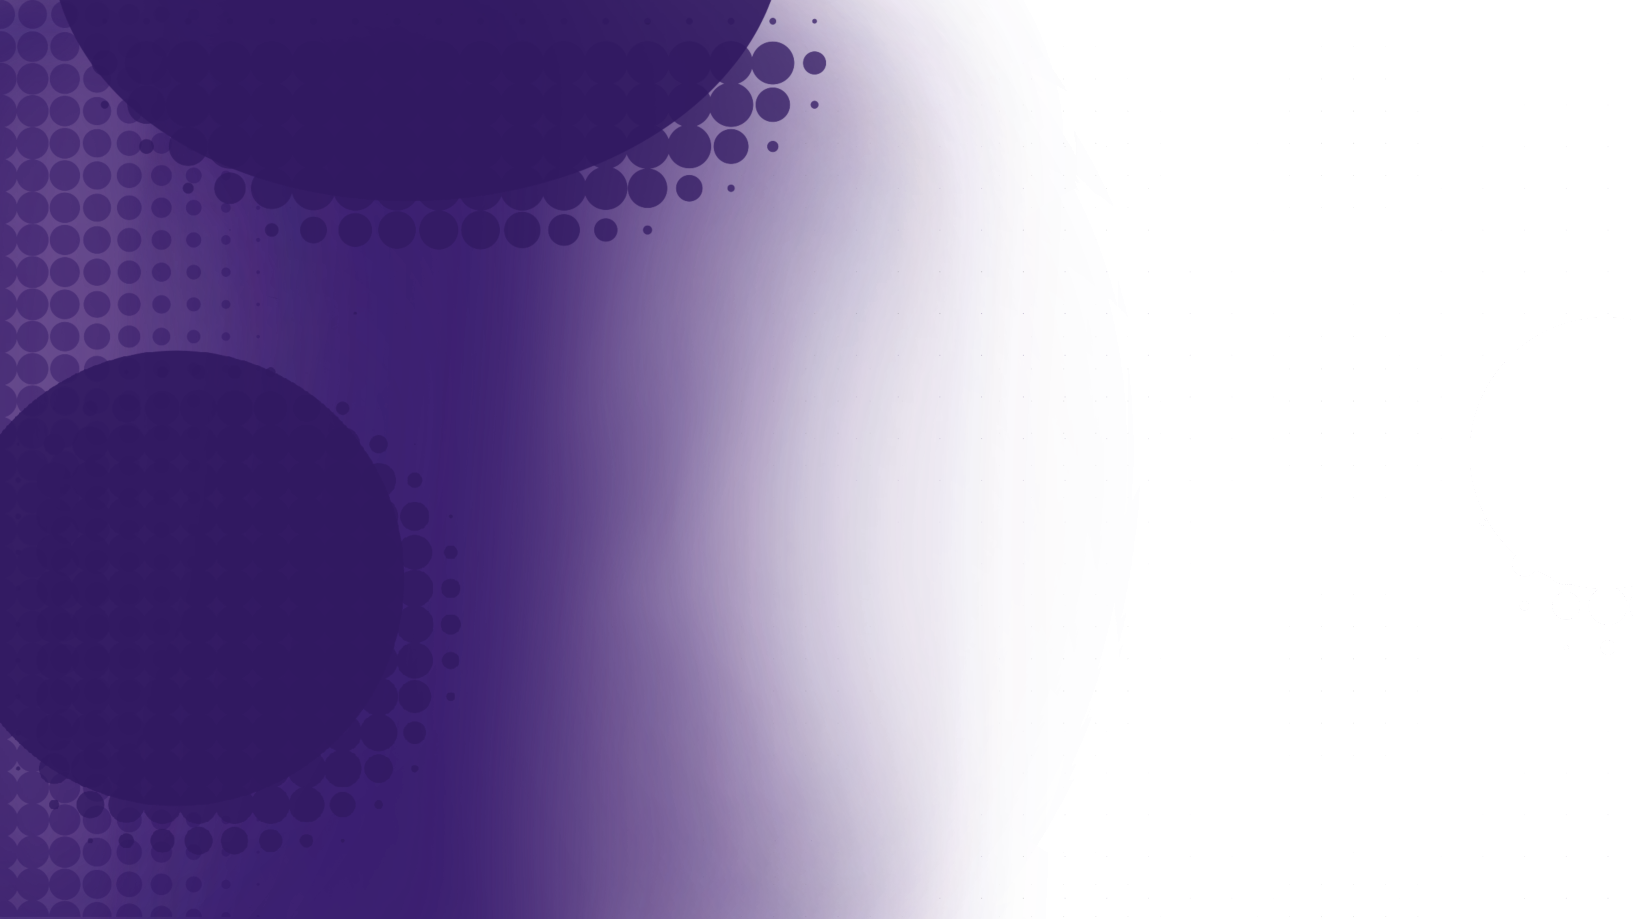
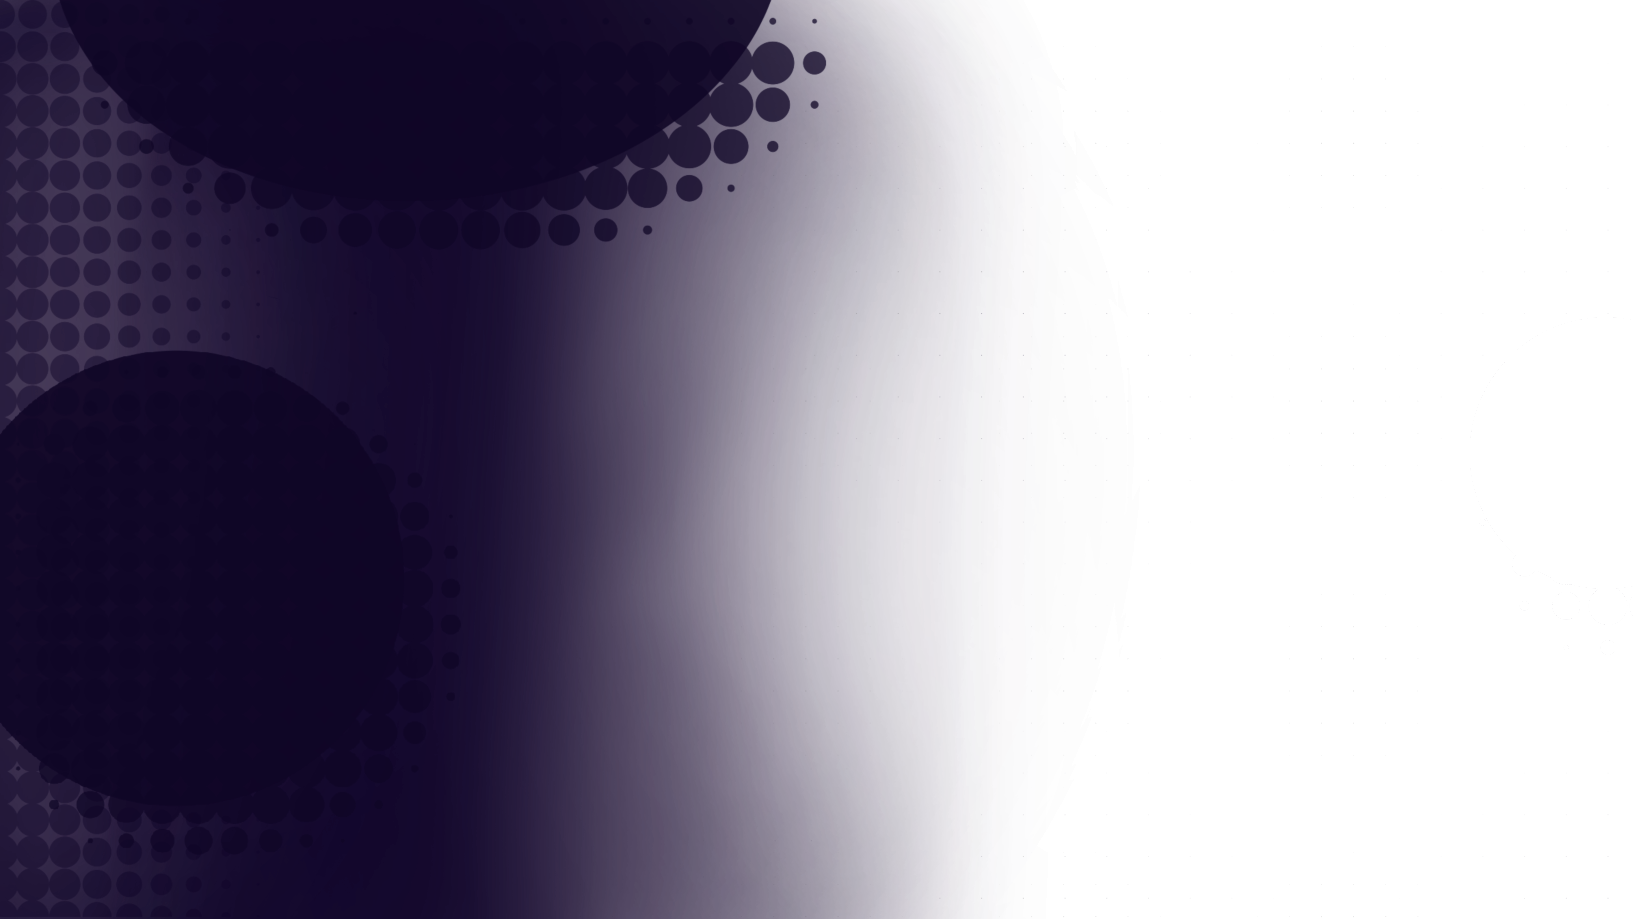
optimization by removing css calls

diff --git a/js/index.js b/js/index.js
@@ -200,111 +200,111 @@ let platform = navigator?.userAgentData?.platform || navigator?.platform || 'unk
 
 let detectStupidiPadPro = (platform === 'MacIntel' && navigator.maxTouchPoints > 0) || platform === 'iPad';
 
-// if(!mobile && !navigator.userAgentData.mobile && !detectStupidiPadPro) {
-//   /* Shift */
+if(!mobile && !navigator.userAgentData.mobile && !detectStupidiPadPro) {
+  /* Shift */
   
-//   window.addEventListener("scroll", function(event) {
+  window.addEventListener("scroll", function(event) {
     
-//     const scrollPosition = window.scrollY;
+    const scrollPosition = window.scrollY;
 
-//     if (Math.abs(scrollPosition - prevScroll) > 5) {
-//       prevScroll = scrollPosition;
-//       stopSpamming = 1;
-//       const offsetSize = scrollPosition * 0.03;
-//       const overLayOffsetSize = scrollPosition * 0.02;
-//       const blurSize = scrollPosition * 0.02
-//       const overLayBlurSize = scrollPosition * 0.015
-//       if (offsetSize > 10) {
-//         // offsetSize = 10;
-//       }
-//       topBackground.style.top = `${offsetSize}vh`;
-//       topBackground.style.filter = `brightness(75%) hue-rotate(-10deg) blur(${blurSize}px)`;
-//       topBackgroundOverlay.style.top = `${overLayOffsetSize}vh`;
-//       topBackgroundOverlay.style.filter = `brightness(35%) hue-rotate(-3deg) saturate(0.95); blur(${overLayBlurSize}px)`;
+    if (Math.abs(scrollPosition - prevScroll) > 5) {
+      prevScroll = scrollPosition;
+      stopSpamming = 1;
+      const offsetSize = scrollPosition * 0.03;
+      const overLayOffsetSize = scrollPosition * 0.02;
+      const blurSize = scrollPosition * 0.02
+      const overLayBlurSize = scrollPosition * 0.015
+      if (offsetSize > 10) {
+        // offsetSize = 10;
+      }
+      topBackground.style.top = `${offsetSize}vh`;
+      topBackground.style.filter = `blur(${blurSize}px)`;
+      topBackgroundOverlay.style.top = `${overLayOffsetSize}vh`;
+      topBackgroundOverlay.style.filter = `blur(${overLayBlurSize}px)`;
       
 
-//       function blur(elem, multiplier, range=0) {
-//         // nav size
-//         range += 60;
+      function blur(elem, multiplier, range=0) {
+        // nav size
+        range += 60;
 
-//         range += Math.max(250-getHeight(elem), 0) * 0.6;
-//         let defaultPosition = getOffset(elem).top; 
-//         const relativeScroll = -1 * defaultPosition + range;
-//         multiplier *= Math.max(Math.min(getHeight(elem), 150), 100) * 0.02;
-//         const blurSize = Math.max(relativeScroll * multiplier, 0);
-//         elem.style.filter = ` blur(${blurSize}px)`;
-//       }
+        range += Math.max(250-getHeight(elem), 0) * 0.6;
+        let defaultPosition = getOffset(elem).top; 
+        const relativeScroll = -1 * defaultPosition + range;
+        multiplier *= Math.max(Math.min(getHeight(elem), 150), 100) * 0.02;
+        const blurSize = Math.max(relativeScroll * multiplier, 0);
+        elem.style.filter = ` blur(${blurSize}px)`;
+      }
 
       
-//       slightBlurElems.forEach((elem) => {
-//         blur(elem, 0.009, 0);
-//       })
+      slightBlurElems.forEach((elem) => {
+        blur(elem, 0.009, 0);
+      })
       
-//       blurElems.forEach((elem) => {
-//         blur(elem, 0.011, 20);
-//       })
+      blurElems.forEach((elem) => {
+        blur(elem, 0.011, 20);
+      })
       
-//       heavyBlurElems.forEach((elem) => {
-//         blur(elem, 0.017, 35);
-//       })
-//     }
-//   })
+      heavyBlurElems.forEach((elem) => {
+        blur(elem, 0.017, 35);
+      })
+    }
+  })
+}
+
+
+// const initVal = 50;
+// function decay(x) {
+//   const a = initVal; // Initial value
+//   const b = 0.05; // Decay rate
+//   return a * Math.exp(-b * x);
+// }
+// const introduce = document.getElementsByClassName("introduce")[0];
+// const introduceIm = document.getElementsByClassName("intro-second")[0];
+// const firstName = document.getElementsByClassName("first-name")[0];
+// const lastName = document.getElementsByClassName("last-name")[0];
+// const codeType = document.getElementsByClassName("code-type")[0];
+
+// let trueTime = 0;
+// let timeIntro = 0;
+// let timeIntroSecond = -40;
+// let timeFirstName = -60;
+// let timeLastName = -60;
+// let timeCodeType = -90;
+// let offset = decay(trueTime);
+// let opacity = 0;
+
+// function paintOffsetOfElem(elem, time) {
+//   offset = decay(Math.max(0, time));
+//   opacity = time/100;
+//   elem.style.transform = `translateX(${0.3 * offset}vh)`;
+//   elem.style.opacity = `${opacity}`;
+// }
+// function paintOpacity(elem, time) {
+//   opacity = time/100;
+//   elem.style.opacity = `${opacity}`;
 // }
 
-
-// // const initVal = 50;
-// // function decay(x) {
-// //   const a = initVal; // Initial value
-// //   const b = 0.05; // Decay rate
-// //   return a * Math.exp(-b * x);
-// // }
-// // const introduce = document.getElementsByClassName("introduce")[0];
-// // const introduceIm = document.getElementsByClassName("intro-second")[0];
-// // const firstName = document.getElementsByClassName("first-name")[0];
-// // const lastName = document.getElementsByClassName("last-name")[0];
-// // const codeType = document.getElementsByClassName("code-type")[0];
-
-// // let trueTime = 0;
-// // let timeIntro = 0;
-// // let timeIntroSecond = -40;
-// // let timeFirstName = -60;
-// // let timeLastName = -60;
-// // let timeCodeType = -90;
-// // let offset = decay(trueTime);
-// // let opacity = 0;
-
-// // function paintOffsetOfElem(elem, time) {
-// //   offset = decay(Math.max(0, time));
-// //   opacity = time/100;
-// //   elem.style.transform = `translateX(${0.3 * offset}vh)`;
-// //   elem.style.opacity = `${opacity}`;
-// // }
-// // function paintOpacity(elem, time) {
-// //   opacity = time/100;
-// //   elem.style.opacity = `${opacity}`;
-// // }
-
-// // function paintOffset() {
+// function paintOffset() {
   
-// //   if(trueTime < 50) {
-// //     paintOffsetOfElem(introduce, timeIntro);
+//   if(trueTime < 50) {
+//     paintOffsetOfElem(introduce, timeIntro);
 
-// //     paintOffsetOfElem(introduceIm, timeIntroSecond);
+//     paintOffsetOfElem(introduceIm, timeIntroSecond);
     
-// //     paintOffsetOfElem(firstName, timeFirstName);
+//     paintOffsetOfElem(firstName, timeFirstName);
     
-// //     paintOffsetOfElem(lastName, timeLastName);
+//     paintOffsetOfElem(lastName, timeLastName);
 
-// //     paintOpacity(codeType, timeCodeType);
+//     paintOpacity(codeType, timeCodeType);
 
-// //     trueTime+=4;
-// //     timeIntro+=4;
-// //     timeIntroSecond+=4;
-// //     timeFirstName+=4;
-// //     timeLastName+=4;
-// //     timeCodeType+=4;
+//     trueTime+=4;
+//     timeIntro+=4;
+//     timeIntroSecond+=4;
+//     timeFirstName+=4;
+//     timeLastName+=4;
+//     timeCodeType+=4;
     
-// //     setTimeout(paintOffset, 80);
-// //   }
-// // }
-// // // paintOffset();
+//     setTimeout(paintOffset, 80);
+//   }
+// }
+// // paintOffset();

diff --git a/css/nav.css b/css/nav.css
@@ -25,7 +25,6 @@
   height: calc(var(--nav-height));
   position: fixed;
   z-index: -3;
-  /* opacity: 0.7; */
 }
 .navbar-bg::before {
   height: var(--nav-edge-height);
@@ -34,9 +33,8 @@
   position: fixed;
   top: calc(var(--nav-height));
   z-index: -4;
-  background-image: linear-gradient(to right, var(--nav-color) 0%, var(--nav-color-2) 35%, var(--nav-color-2) 65%, var(--nav-color) 90%);
-  filter: brightness(0.8) saturate(1.5);
-  opacity: 0.8;
+  background-image: linear-gradient(to right, var(--nav-edge-color) 0%, var(--nav-edge-color-2) 50%, var(--nav-edge-color) 90%);
+  
 }
 .navbar-bg::after {
   transform: translateY(calc(var(--nav-height) - 25px));
@@ -50,7 +48,6 @@
   top: 0;
   opacity: 0.2;
   transition: all 0.2s;
-  /* filter: blur(1px); */
 }
 
 .navbar-brand {
@@ -110,7 +107,6 @@
 .nav-item::after {
   transform: translateX(calc((var(--nav-item-width) + var(--nav-item-adjust)) / 2 - 50%));
   background-image: linear-gradient(to right, var(--bracket-color) 0%, var(--quote-color) 50%, var(--bracket-color)) !important;
-  filter: brightness(0.7);
   width: 0vw;
   content: "";
   position: fixed;

diff --git a/css/intro-bg.css b/css/intro-bg.css
@@ -20,20 +20,8 @@
   position: relative;
   /* transform: translateY(calc(-1 * var(--nav-height))); */
   background-position: top right;
-  filter: brightness(75%) hue-rotate(-10deg);
   /* top: var(--nav-height); */
   /* background-attachment: fixed; */
-}
-
-.top-background::after {
-  position: absolute;
-  
-  content: "";
-  width: 100%;
-  height: 100%;
-  background-image: linear-gradient(to left, var(--descriptor-bg-color) 0%, transparent 30%);
-  
-  opacity: 0.2;
 }
 
 .top-background-overlay-cont {
@@ -56,7 +44,7 @@
   /* top: var(--nav-height); */
   top: 0px;
   left: max(min(calc(-0.25 * (var(--optimal-width) - 100vw)), 0px), -150px);
-  filter: brightness(35%) hue-rotate(-5deg) saturate(1.1);
+  
 }
 
 

diff --git a/css/constants.css b/css/constants.css
@@ -24,9 +24,14 @@
   --test: hsl(264, 64%, 10%); */
 
   /* Nav */
-  --nav-color: hsla(326, 59%, 73%, 90%);
+  --nav-color: hsla(326, 59%, 73%, 0.9);
   --nav-color-low-op: hsla(326, 59%, 73%, 0.5);
   --nav-color-2: hsla(256, 37%, 42%, 0.8);
+  
+  
+  --nav-edge-color: rgba(198, 100, 155, 0.72);
+  --nav-edge-color-2: rgba(63, 38, 134, 0.64);
+
   /* --asdfasdf: hsl(298, 23%, 45%); */
   --nav-height: 60px;
   --nav-edge-height: 6px;

diff --git a/index.html b/index.html
@@ -68,7 +68,7 @@
             </h2>
             <br>
             <div class="">
-            <h1 class="first-name name-color intro-bg blur-slight">JacobL</h1>
+            <h1 class="first-name name-color intro-bg blur-slight">Jacob</h1>
             <br>
             <h1 class="last-name name-color intro-bg blur-slight">Jiang</h1>
             </div>
